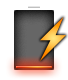
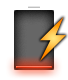
Battery: recolour the gauge frames to legacy's tints
The redrawn @4x frames carried a fully saturated, slightly cyan green
(#00b400/#00c313) where legacy's status bar used a softer #1cb81c/#31cd31,
and the empty bar had an orange core legacy's never had. Recolour the
coloured frames from legacy's own statusBar art, keeping the new frames'
shading and alpha:

- battery-11, battery-charged: hue 120, fill lifted and desaturated to
  legacy's (#23c223/#2fdd2f), outline #006000 and highlight (#cdfecd)
  as legacy's
- battery-0, battery-charging-0: the bar held at legacy's hue 10
- battery-1, battery-charging-1: the amber moved to legacy's hue 45

The charging bolt already matched legacy's orange and is untouched.
These six frames now differ from cardshell's copies, so the gauge
comment no longer says they are byte for byte the same.

Changed region(s): [[0.3529, 0.825, 0.7353, 0.85]]

diff --git a/src/qml/General/BatteryPage.qml b/src/qml/General/BatteryPage.qml
@@ -244,10 +244,12 @@ BasePage {
     /*
      * The gauge is the project's own status bar battery artwork (the @4x set
      * from the wiki's Graphics Work page, the same twenty-six frames
-     * luna-next-cardshell draws in the status bar - byte for byte the same
-     * files). Reusing it rather than drawing a bar here means the charge on
-     * this page and the charge in the status bar are never two different
-     * pictures of the same number.
+     * luna-next-cardshell draws in the status bar). Reusing it rather than
+     * drawing a bar here means the charge on this page and the charge in the
+     * status bar are never two different pictures of the same number. The
+     * green, red and amber frames here are recoloured to legacy's tints
+     * (fill #1cb81c/#31cd31, red hue 10, amber #ffc61b), so unlike the rest
+     * they are no longer byte for byte cardshell's files.
      *
      * The frame is picked exactly the way cardshell's BatteryIndicator picks
      * it: a 0-12 level floored out of the percentage, clamped to the eleventh
